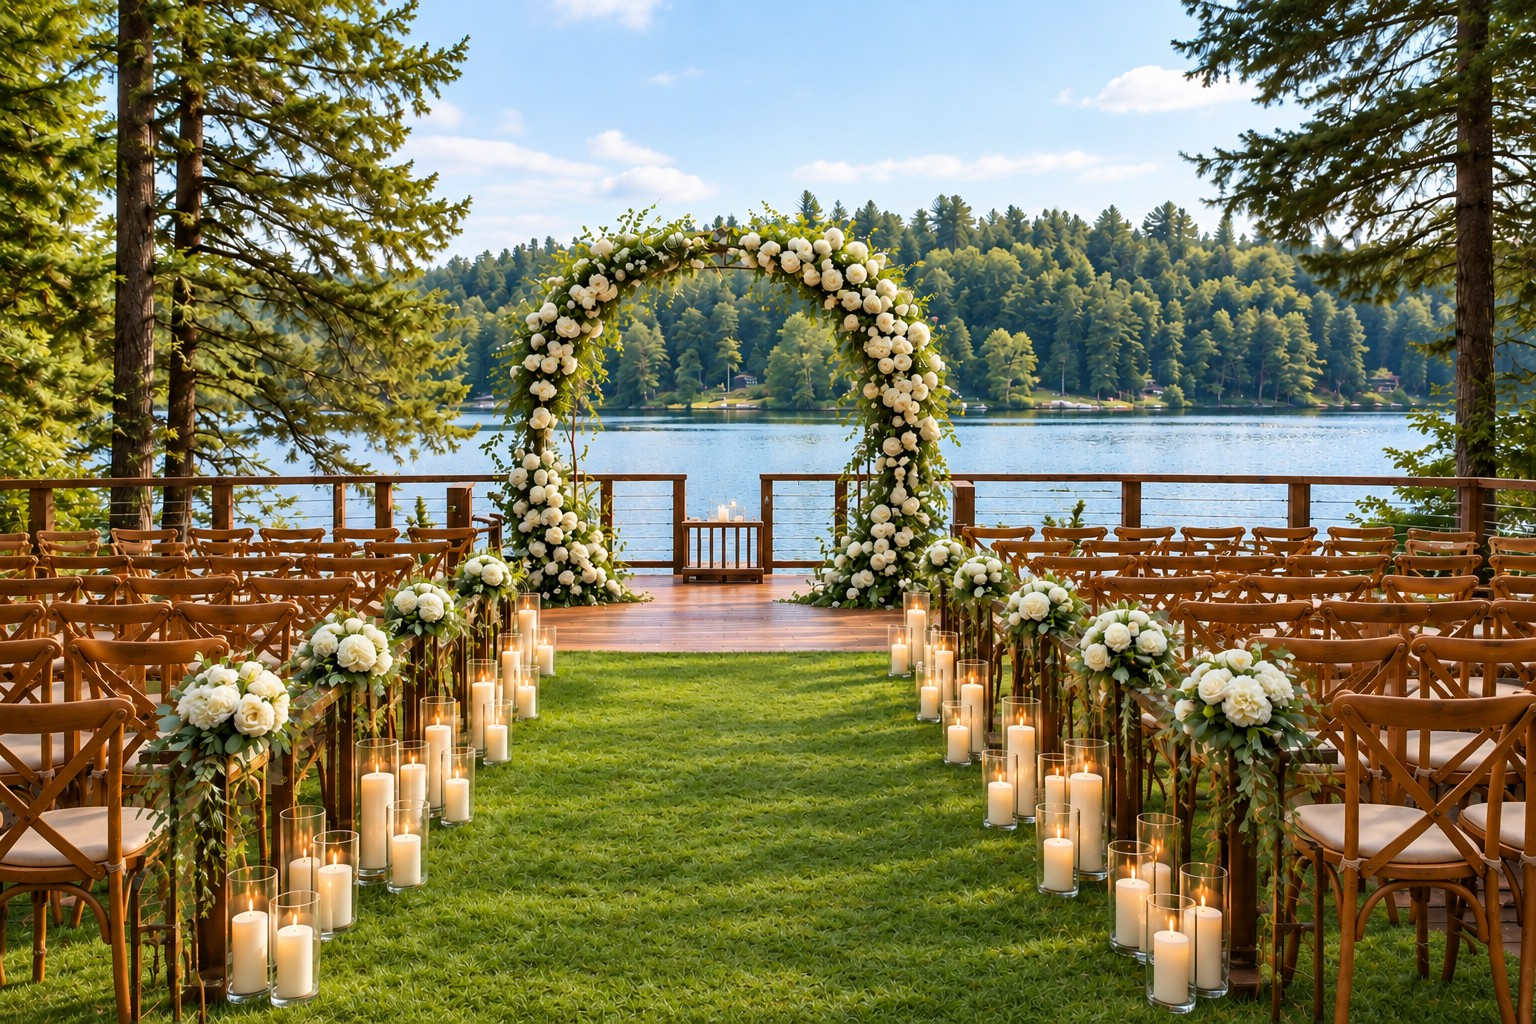
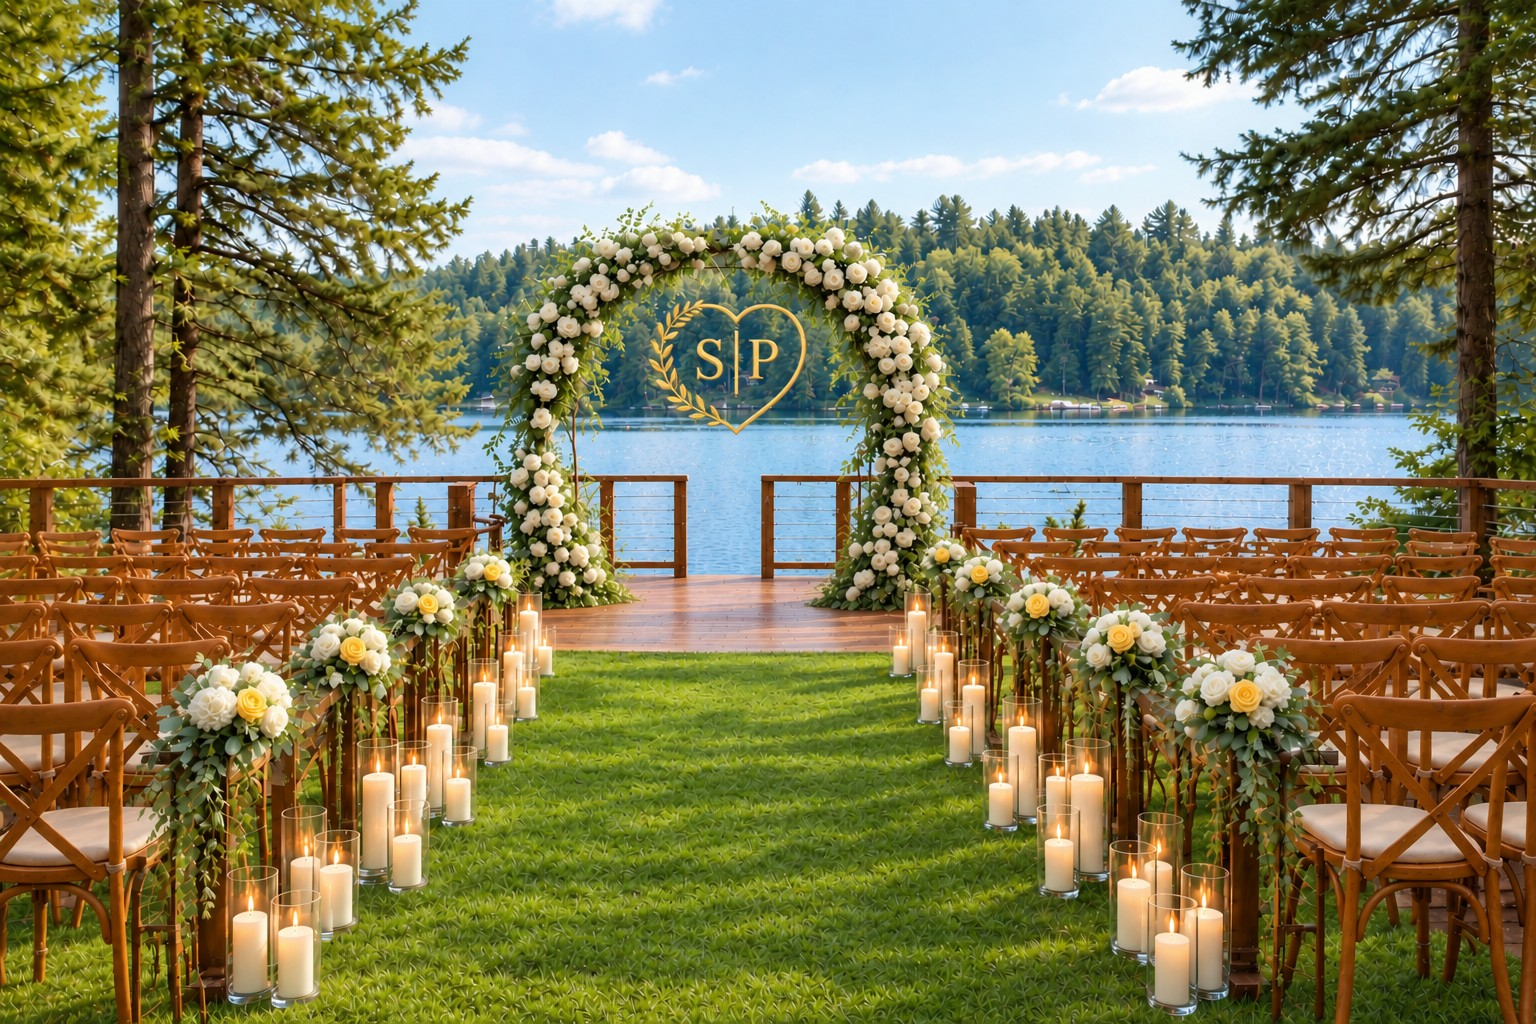
Use final Lac Carling image and move couple photos into story

diff --git a/index.html b/index.html
@@ -20,14 +20,14 @@
         <a href="#lieu" onclick="openVenue(); return false;">Lieu</a>
         <a href="#programme" onclick="openInfo('programmeOverlay'); return false;">Programme</a>
       </div>
-      <a class="header-brand" href="#accueil" onclick="returnHome(); return false;" aria-label="Sarah et Patrick, accueil"><img src="assets/monogram-sp.jpeg" alt=""></a>
+      <a class="header-brand" href="#accueil" onclick="returnHome(); return false;" aria-label="Sarah et Patrick, accueil"><img src="assets/monogram-sp-heart.png" alt=""></a>
       <div class="nav-group">
         <a href="#reservation" onclick="openRSVP(); return false;">Réservez</a>
         <a href="#cadeau" onclick="openInfo('giftsOverlay'); return false;">Cadeau</a>
         <a href="#contact" onclick="openInfo('contactOverlay'); return false;">Contact</a>
       </div>
     </nav>
-    <a class="mobile-brand" href="#accueil" onclick="returnHome(); return false;" aria-label="Sarah et Patrick, accueil"><img src="assets/monogram-sp.jpeg" alt=""><span>Sarah &amp; Patrick</span></a>
+    <a class="mobile-brand" href="#accueil" onclick="returnHome(); return false;" aria-label="Sarah et Patrick, accueil"><img src="assets/monogram-sp-heart.png" alt=""><span>Sarah &amp; Patrick</span></a>
     <button class="menu-btn" id="menuBtn" type="button" aria-label="Ouvrir le menu" aria-controls="sideNav" aria-expanded="false">
       <span class="menu-icon"><span></span><span></span><span></span></span>
       <span class="menu-text">MENU</span>
@@ -154,16 +154,6 @@
           <p class="section-copy">Les informations de contribution seront communiquées prochainement.</p>
         </div>
 
-        <div class="section section-app" id="section-app">
-          <p class="section-kicker">Photos</p>
-          <p class="section-title">Nos souvenirs</p>
-          <div class="photo-grid">
-            <figure><img src="assets/source-photos/sp-1.jpg" alt="Sarah et Patrick ensemble"><figcaption>Sarah &amp; Patrick <span>24·04·2027</span></figcaption></figure>
-            <figure><img src="assets/source-photos/sp-12.jpg" alt="Sarah et Patrick lors d’un événement"><figcaption>À célébrer <span>avec vous</span></figcaption></figure>
-            <figure><img src="assets/source-photos/sp-2.jpg" alt="Sarah et Patrick ensemble"><figcaption>Notre histoire <span>commence ici</span></figcaption></figure>
-          </div>
-        </div>
-
         <footer class="site-footer" id="section-contact">
           <span class="footer-brand">Sarah &amp; Patrick</span>
           <span class="footer-link">24 avril 2027</span>
@@ -239,6 +229,10 @@
         <p>Nous sommes heureux de vous compter parmi nous pour célébrer le début de ce nouveau chapitre.</p>
         <p class="story-placeholder">Cet espace plein écran est prêt à accueillir votre histoire complète, vos souvenirs et les mots que vous souhaitez partager avec vos invités.</p>
       </article>
+    </div>
+    <div class="story-gallery" aria-label="Photos de Sarah et Patrick">
+      <img src="assets/source-photos/sp-12.jpg" alt="Sarah et Patrick ensemble lors d’un événement" loading="lazy">
+      <img src="assets/source-photos/sp-2.jpg" alt="Un autre souvenir de Sarah et Patrick" loading="lazy">
     </div>
   </section>
 

diff --git a/styles.css b/styles.css
@@ -865,6 +865,8 @@ body.modal-open {
 .story-close { position: fixed; z-index: 2; top: clamp(17px, 3vw, 38px); right: clamp(20px, 4vw, 58px); display: grid; place-items: center; width: 52px; height: 52px; padding: 0; border: 1px solid #42533F; border-radius: 50%; color: #42533F; background: rgba(251, 248, 241, .88); font: 400 42px/1 'Inter', sans-serif; cursor: pointer; transition: background .22s ease, color .22s ease, transform .22s ease; }
 .story-close:hover { color: #D8B86F; background: #42533F; transform: rotate(90deg); }
 body.story-open { overflow: hidden; }
+.story-gallery { display: grid; grid-template-columns: repeat(2, minmax(0, 1fr)); gap: clamp(14px, 2.5vw, 30px); width: min(100%, 1100px); margin: 42px auto 0; padding-bottom: 24px; }
+.story-gallery img { display: block; width: 100%; aspect-ratio: 4 / 3; object-fit: cover; box-shadow: 0 18px 42px rgba(43, 43, 30, .12); }
 
 /* Shared action language: almond surface, green border, gold on green hover. */
 .btn-dark, .btn-outline, .hero-welcome, .btn-modal-submit {
@@ -1178,6 +1180,7 @@ body.story-open { overflow: hidden; }
   .story-reading h2 { font-size: 54px; }
   .story-reading p { font-size: 16px; line-height: 1.8; }
   .story-close { width: 45px; height: 45px; font-size: 36px; }
+  .story-gallery { grid-template-columns: 1fr; margin-top: 20px; }
 }
 
 /* The two hero actions now share one aligned invitation bar. */
@@ -1366,7 +1369,7 @@ body.rsvp-open { overflow: hidden; }
 }
 .nav-group a:hover, .nav-group a:focus-visible { color: #a88138; }
 .header-brand { display: block; width: 58px; height: 58px; }
-.header-brand img { display: block; width: 100%; height: 100%; object-fit: contain; border-radius: 50%; }
+.header-brand img { display: block; width: 100%; height: 100%; object-fit: contain; mix-blend-mode: multiply; }
 .mobile-brand, .site-header .menu-btn { display: none; }
 .layout { height: calc(100vh - 76px); height: calc(100dvh - 76px); }
 .venue-ceremony { object-position: center 25%; }
@@ -1442,7 +1445,7 @@ body.overlay-open { overflow: hidden; }
 @media (max-width: 1180px) {
   .desktop-nav { display: none; }
   .mobile-brand { display: flex; align-items: center; gap: 8px; color: #42533f; font: 400 22px 'Lobster', cursive; text-decoration: none; }
-  .mobile-brand img { width: 48px; height: 48px; object-fit: contain; border-radius: 50%; }
+  .mobile-brand img { width: 48px; height: 48px; object-fit: contain; mix-blend-mode: multiply; }
   .site-header .menu-btn { position: static; display: flex; margin-left: auto; color: #42533f; border-color: #42533f; }
   .site-header .menu-icon span { background: #42533f; }
 }
